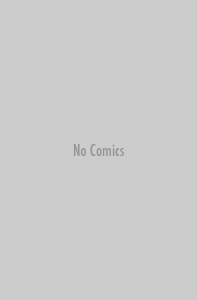
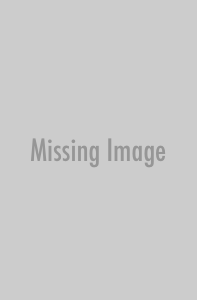
Handle missing cover image a little better.

Changed region(s): [[0.1523, 0.45, 0.8528, 0.57]]

diff --git a/app/models/group.rb b/app/models/group.rb
@@ -7,7 +7,7 @@ class Group < ApplicationRecord
 
 
   def cover_image_thumb
-    comics.first.try(:pages).try(:first).try(:image).try(:url, :thumb)
+    @cover_image_thumb ||= comics.first.try(:pages).try(:first).try(:image)
   end
 
   def delete_comics!
@@ -28,7 +28,6 @@ class Group < ApplicationRecord
 
   # Returns the Comic after `current_comic` or `self` if last Comic.
   def next_comic(current_comic)
-    # FIXME: This is left over from when we were using mongo. Make this an actual db query.
     comics.each_slice(2) do |one, two|
       return two if current_comic.id.to_s == one.id.to_s
     end

diff --git a/app/models/comic.rb b/app/models/comic.rb
@@ -8,7 +8,7 @@ class Comic < ApplicationRecord
 
 
   def cover_image_thumb
-    pages.first.try(:image).try(:url, :thumb)
+    @cover_image_thumb ||= pages.first.try(:image)
   end
 
   def import_from_archive(comic_params)

diff --git a/app/helpers/application_helper.rb b/app/helpers/application_helper.rb
@@ -1,2 +1,7 @@
 module ApplicationHelper
+
+  def thumb_or_placeholder_image_tag(image)
+    image_tag(image.exists? ? image.url(:thumb) : 'placeholder.png')
+  end
+
 end
